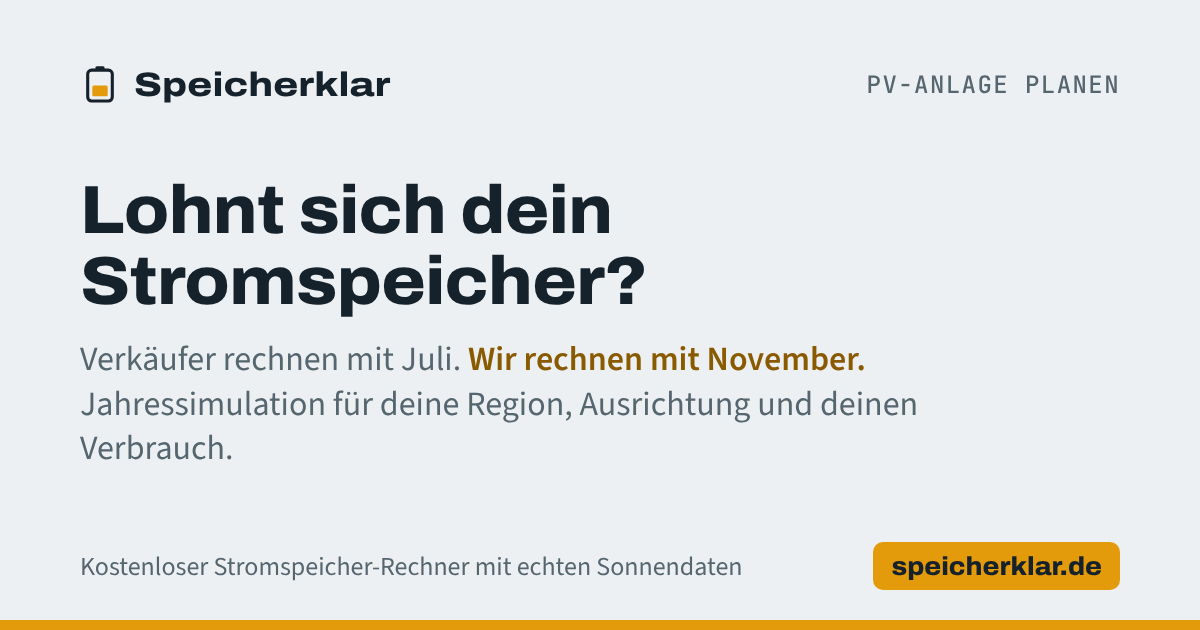
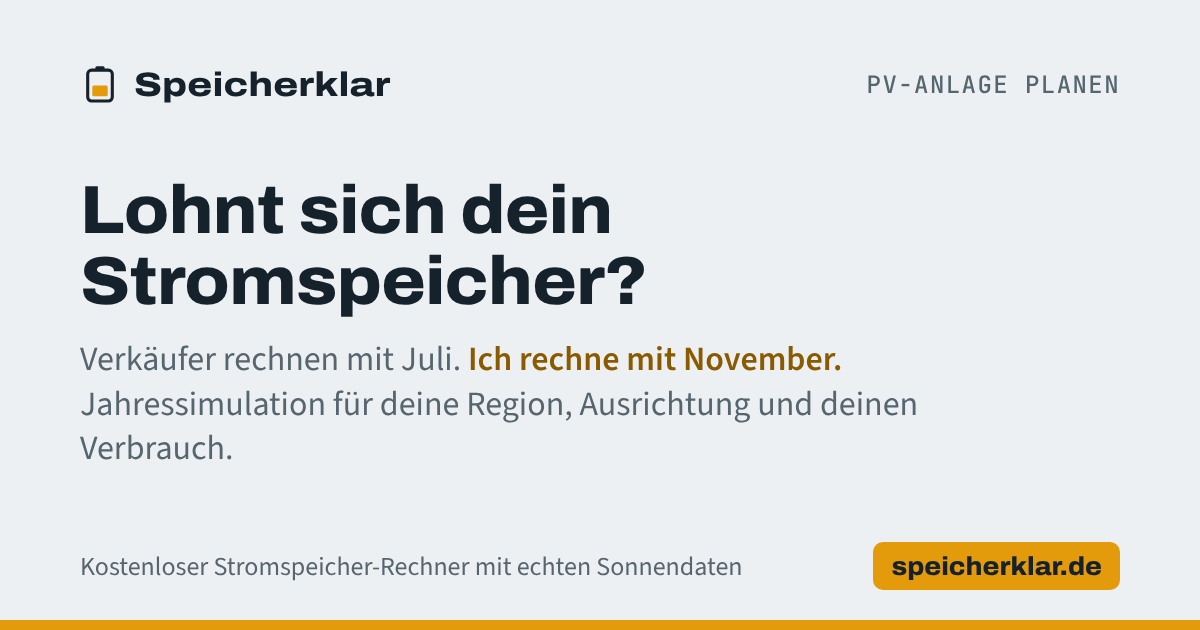
Leitsatz: „Ich rechne mit November“ statt „Wir rechnen mit November“ (Startseite, Vorschaubild, Meta)
Claude-Session: https://claude.ai/code/session_019CbznKAmsoaG4fUdd43Mgb

Changed region(s): [[0.37, 0.5429, 0.7092, 0.6032]]

diff --git a/index.html b/index.html
@@ -8,12 +8,12 @@
 <link rel="canonical" href="https://speicherklar.de/">
 <script type="application/ld+json">{"@context": "https://schema.org", "@graph": [{"@type": "WebSite", "@id": "https://speicherklar.de/#website", "name": "Speicherklar", "url": "https://speicherklar.de/", "inLanguage": "de", "publisher": {"@id": "https://speicherklar.de/#org"}}, {"@type": "Organization", "@id": "https://speicherklar.de/#org", "name": "Speicherklar", "url": "https://speicherklar.de/", "logo": "https://speicherklar.de/img/icon-512.png", "email": "kontakt@speicherklar.de", "sameAs": ["https://www.instagram.com/speicherklar/"]}, {"@type": "WebApplication", "name": "Speicherklar Stromspeicher-Rechner", "url": "https://speicherklar.de/", "applicationCategory": "UtilitiesApplication", "operatingSystem": "Web-Browser", "inLanguage": "de", "isAccessibleForFree": true, "description": "Jahressimulation in 5-Minuten-Schritten mit Sonnendaten der Region. Zeigt, welche Speichergröße sich für eine geplante PV-Anlage lohnt.", "offers": {"@type": "Offer", "price": "0", "priceCurrency": "EUR"}, "publisher": {"@id": "https://speicherklar.de/#org"}}]}</script>
 <meta property="og:title" content="Speicherklar – Passen Speicher und PV-Anlage zu deinem Haus?">
-<meta property="og:description" content="Verkäufer rechnen mit Juli. Wir rechnen mit November. Kostenloser Speicher-Rechner und Angebots-Check für PV-Anlage und Speicher.">
+<meta property="og:description" content="Verkäufer rechnen mit Juli. Ich rechne mit November. Kostenloser Speicher-Rechner und Angebots-Check für PV-Anlage und Speicher.">
 <meta property="og:url" content="https://speicherklar.de/">
 <meta property="og:type" content="website">
 <meta property="og:locale" content="de_DE">
 <meta name="theme-color" content="#EDF0F2">
-<link rel="icon" href="/favicon.ico" sizes="48x48"><link rel="icon" href="/favicon.svg" type="image/svg+xml"><link rel="icon" href="/img/favicon-96.png" sizes="96x96" type="image/png"><link rel="apple-touch-icon" href="/apple-touch-icon.png"><link rel="manifest" href="/site.webmanifest"><meta name="apple-mobile-web-app-title" content="Speicherklar"><meta property="og:site_name" content="Speicherklar"><meta property="og:image" content="https://speicherklar.de/img/og/start.png"><meta property="og:image:width" content="1200"><meta property="og:image:height" content="630"><meta property="og:image:alt" content="Speicherklar: Lohnt sich dein Stromspeicher? Verkäufer rechnen mit Juli, wir rechnen mit November."><meta name="twitter:card" content="summary_large_image">
+<link rel="icon" href="/favicon.ico" sizes="48x48"><link rel="icon" href="/favicon.svg" type="image/svg+xml"><link rel="icon" href="/img/favicon-96.png" sizes="96x96" type="image/png"><link rel="apple-touch-icon" href="/apple-touch-icon.png"><link rel="manifest" href="/site.webmanifest"><meta name="apple-mobile-web-app-title" content="Speicherklar"><meta property="og:site_name" content="Speicherklar"><meta property="og:image" content="https://speicherklar.de/img/og/start.png"><meta property="og:image:width" content="1200"><meta property="og:image:height" content="630"><meta property="og:image:alt" content="Speicherklar: Lohnt sich dein Stromspeicher? Verkäufer rechnen mit Juli, ich rechne mit November."><meta name="twitter:card" content="summary_large_image">
 <script>try{var u=new URL(location.href),q=u.searchParams.get('ich');if(q==='1')localStorage.setItem('umami.disabled','1');else if(q==='0')localStorage.removeItem('umami.disabled');if(q!==null){u.searchParams.delete('ich');history.replaceState(null,'',u.pathname+u.search+u.hash);console.info('Speicherklar: Zählung in diesem Browser '+(q==='1'?'aus':'an'));}}catch(e){}</script><script defer src="https://cloud.umami.is/script.js" data-website-id="f4570047-b7d7-42e7-944e-a06941b94082" data-domains="speicherklar.de"></script>
 <style>
 @font-face{font-family:"Archivo";src:url(fonts/archivo-var.woff2) format("woff2");font-weight:100 900;font-stretch:62% 125%;font-display:swap}
@@ -416,7 +416,7 @@ matchMedia('(min-width:841px)').addEventListener('change',function(m){if(m.match
     <div class="wrap hero-grid">
       <div class="hero-head">
       <div class="eyebrow">Für alle, die eine PV-Anlage planen</div>
-      <h1>Verkäufer rechnen mit Juli. <em>Wir rechnen mit November.</em></h1>
+      <h1>Verkäufer rechnen mit Juli. <em>Ich rechne mit November.</em></h1>
       </div>
       <div class="hero-body">
       <p class="lede">Lohnt sich ein Stromspeicher, und wie groß sollte er sein? Der Rechner spielt ein ganzes Jahr in 5-Minuten-Schritten durch, mit Sonnendaten der EU-Kommission für deine Region, trüben Wochen und Abendspitzen.</p>

diff --git a/src/body.html b/src/body.html
@@ -5,7 +5,7 @@
     <div class="wrap hero-grid">
       <div class="hero-head">
       <div class="eyebrow">Für alle, die eine PV-Anlage planen</div>
-      <h1>Verkäufer rechnen mit Juli. <em>Wir rechnen mit November.</em></h1>
+      <h1>Verkäufer rechnen mit Juli. <em>Ich rechne mit November.</em></h1>
       </div>
       <div class="hero-body">
       <p class="lede">Lohnt sich ein Stromspeicher, und wie groß sollte er sein? Der Rechner spielt ein ganzes Jahr in 5-Minuten-Schritten durch, mit Sonnendaten der EU-Kommission für deine Region, trüben Wochen und Abendspitzen.</p>

diff --git a/build.py b/build.py
@@ -46,12 +46,12 @@ head = f"""<!doctype html>
 <link rel="canonical" href="https://speicherklar.de/">
 {HOME_LD}
 <meta property="og:title" content="Speicherklar – Passen Speicher und PV-Anlage zu deinem Haus?">
-<meta property="og:description" content="Verkäufer rechnen mit Juli. Wir rechnen mit November. Kostenloser Speicher-Rechner und Angebots-Check für PV-Anlage und Speicher.">
+<meta property="og:description" content="Verkäufer rechnen mit Juli. Ich rechne mit November. Kostenloser Speicher-Rechner und Angebots-Check für PV-Anlage und Speicher.">
 <meta property="og:url" content="https://speicherklar.de/">
 <meta property="og:type" content="website">
 <meta property="og:locale" content="de_DE">
 <meta name="theme-color" content="#EDF0F2">
-{head_meta("img/og/start.png", "Speicherklar: Lohnt sich dein Stromspeicher? Verkäufer rechnen mit Juli, wir rechnen mit November.")}
+{head_meta("img/og/start.png", "Speicherklar: Lohnt sich dein Stromspeicher? Verkäufer rechnen mit Juli, ich rechne mit November.")}
 {analytics()}
 <style>
 {(S / "fonts.css").read_text()}{(S / "style.css").read_text()}</style>

diff --git a/src/images.py b/src/images.py
@@ -67,7 +67,7 @@ def build(articles):
         if sig.get(key) != hsh or not path.exists():
             jobs.append((path, content, w, h)); sig[key] = hsh
     want(OG / "start.png", card_html("PV-Anlage planen", "Lohnt sich dein Stromspeicher?",
-         sub="Verkäufer rechnen mit Juli. <em>Wir rechnen mit November.</em> Jahressimulation für deine Region, Ausrichtung und deinen Verbrauch."), 1200, 630)
+         sub="Verkäufer rechnen mit Juli. <em>Ich rechne mit November.</em> Jahressimulation für deine Region, Ausrichtung und deinen Verbrauch."), 1200, 630)
     want(OG / "ratgeber.png", card_html("Ratgeber", "Stromspeicher, ehrlich gerechnet",
          sub="Fragen rund um PV-Anlage und Speicher, beantwortet mit Zahlen aus der Jahressimulation."), 1200, 630)
     want(OG / "pro.png", card_html("Speicherklar Pro", "Die zweite Rechnung zu deinem Angebot",
